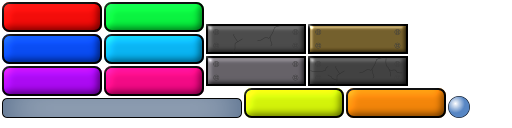
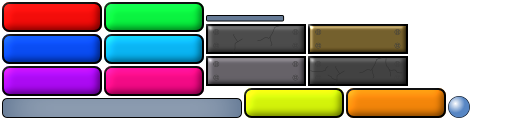
Own breakout test game - add life counter

Changed region(s): [[0.375, 0.0938, 0.5625, 0.1875]]

diff --git a/LibGDXTestRoom/MyBreakoutGame/core/src/pl/com/calmandwritecode/LevelScreen.java b/LibGDXTestRoom/MyBreakoutGame/core/src/pl/com/calmandwritecode/LevelScreen.java
@@ -4,10 +4,10 @@ import com.badlogic.gdx.Gdx;
 import com.badlogic.gdx.Input;
 import com.badlogic.gdx.Screen;
 import com.badlogic.gdx.graphics.Color;
+import com.badlogic.gdx.graphics.GL20;
 import com.badlogic.gdx.graphics.OrthographicCamera;
 import com.badlogic.gdx.graphics.g2d.SpriteBatch;
 import com.badlogic.gdx.graphics.g2d.TextureAtlas;
-import com.badlogic.gdx.graphics.glutils.ShapeRenderer;
 import com.badlogic.gdx.math.MathUtils;
 import com.badlogic.gdx.math.Vector2;
 import com.badlogic.gdx.utils.Array;
@@ -22,6 +22,7 @@ public class LevelScreen implements Screen {
     private final Paddle paddle;
     private Array<Brick> bricks;
     private final TextureAtlas atlas;
+    private final LifeCounter lifeCounter;
 
     public LevelScreen(BreakoutGame game) {
         this.game = game;
@@ -40,6 +41,8 @@ public class LevelScreen implements Screen {
         camera = new OrthographicCamera();
         camera.setToOrtho(false, WIDTH, HEIGHT);
 
+        lifeCounter = new LifeCounter(atlas);
+
         Gdx.input.setCursorCatched(true);
     }
 
@@ -50,12 +53,14 @@ public class LevelScreen implements Screen {
     @Override
     public void render(float delta) {
         ScreenUtils.clear(Color.BLACK);
+        Gdx.gl20.glClear(GL20.GL_COLOR_BUFFER_BIT);
         camera.update();
         game.batch.setProjectionMatrix(camera.combined);
         game.batch.begin();
         paddle.draw(game.batch);
         drawBricks(game.batch);
         ball.draw(game.batch);
+        lifeCounter.draw(game.batch);
         findBrickCollision();
         game.batch.end();
         paddle.collision(ball);
@@ -66,7 +71,12 @@ public class LevelScreen implements Screen {
             ball.accelerateBall();
         }
 
-        if (ball.y<=0 || Gdx.input.isKeyPressed(Input.Keys.ESCAPE)){
+        if (ball.y < 0){
+            lifeCounter.ballOut();
+            ball.backToCentre();
+        }
+
+        if (lifeCounter.isGameOver() || Gdx.input.isKeyPressed(Input.Keys.ESCAPE)){
             backToMenu();
         }
     }

diff --git a/LibGDXTestRoom/MyBreakoutGame/core/src/pl/com/calmandwritecode/LifeCounter.java b/LibGDXTestRoom/MyBreakoutGame/core/src/pl/com/calmandwritecode/LifeCounter.java
@@ -1,0 +1,38 @@
+package pl.com.calmandwritecode;
+
+import com.badlogic.gdx.Gdx;
+import com.badlogic.gdx.graphics.g2d.BitmapFont;
+import com.badlogic.gdx.graphics.g2d.Sprite;
+import com.badlogic.gdx.graphics.g2d.SpriteBatch;
+import com.badlogic.gdx.graphics.g2d.TextureAtlas;
+
+public class LifeCounter {
+
+    private Sprite paddleSprite;
+    private int lives;
+    private BitmapFont font;
+
+    public LifeCounter(TextureAtlas atlas){
+        paddleSprite = atlas.createSprite("small_paddle");
+        lives = 3;
+        font = new BitmapFont();
+    }
+
+    public void draw(SpriteBatch batch){
+        batch.draw(paddleSprite, 10, Gdx.graphics.getHeight()-20);
+        font.draw(batch," x "+lives,paddleSprite.getX()+paddleSprite.getWidth()+10,Gdx.graphics.getHeight()-10);
+    }
+
+    public void ballOut(){
+        lives -= 1;
+    }
+
+    public void extraLife(){
+        lives += 1;
+    }
+
+    public boolean isGameOver(){
+        return lives < 0;
+    }
+
+}

diff --git a/LibGDXTestRoom/MyBreakoutGame/core/src/pl/com/calmandwritecode/Ball.java b/LibGDXTestRoom/MyBreakoutGame/core/src/pl/com/calmandwritecode/Ball.java
@@ -73,4 +73,11 @@ public class Ball extends Circle {
     public void playBounce(){
         ballBounceSound.play();
     }
+
+    public void backToCentre(){
+        x=widthScreen/2;
+        y=heightScreen/2-100;
+        xSpeed = 2;
+        ySpeed = 3;
+    }
 }
